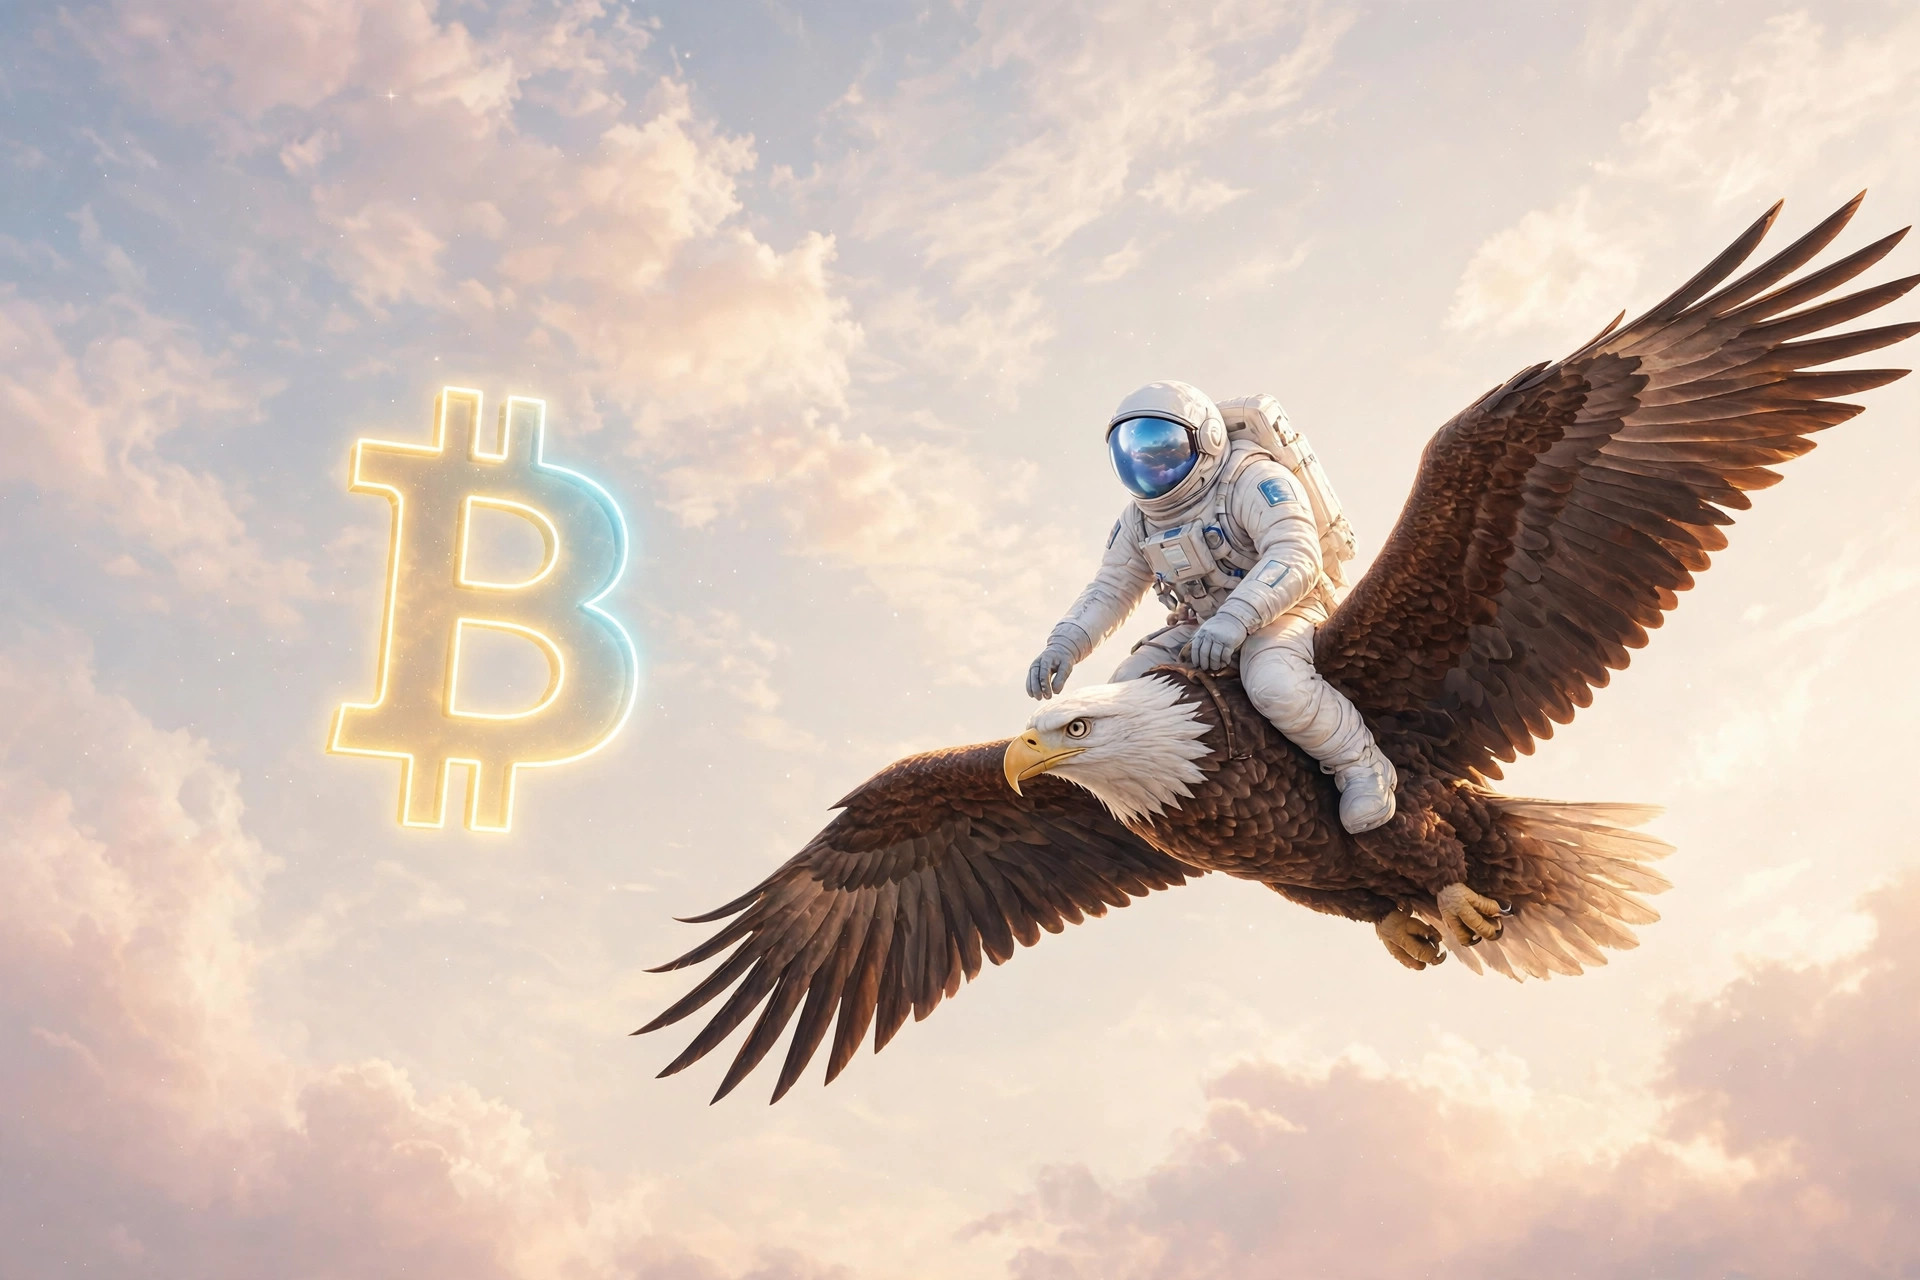
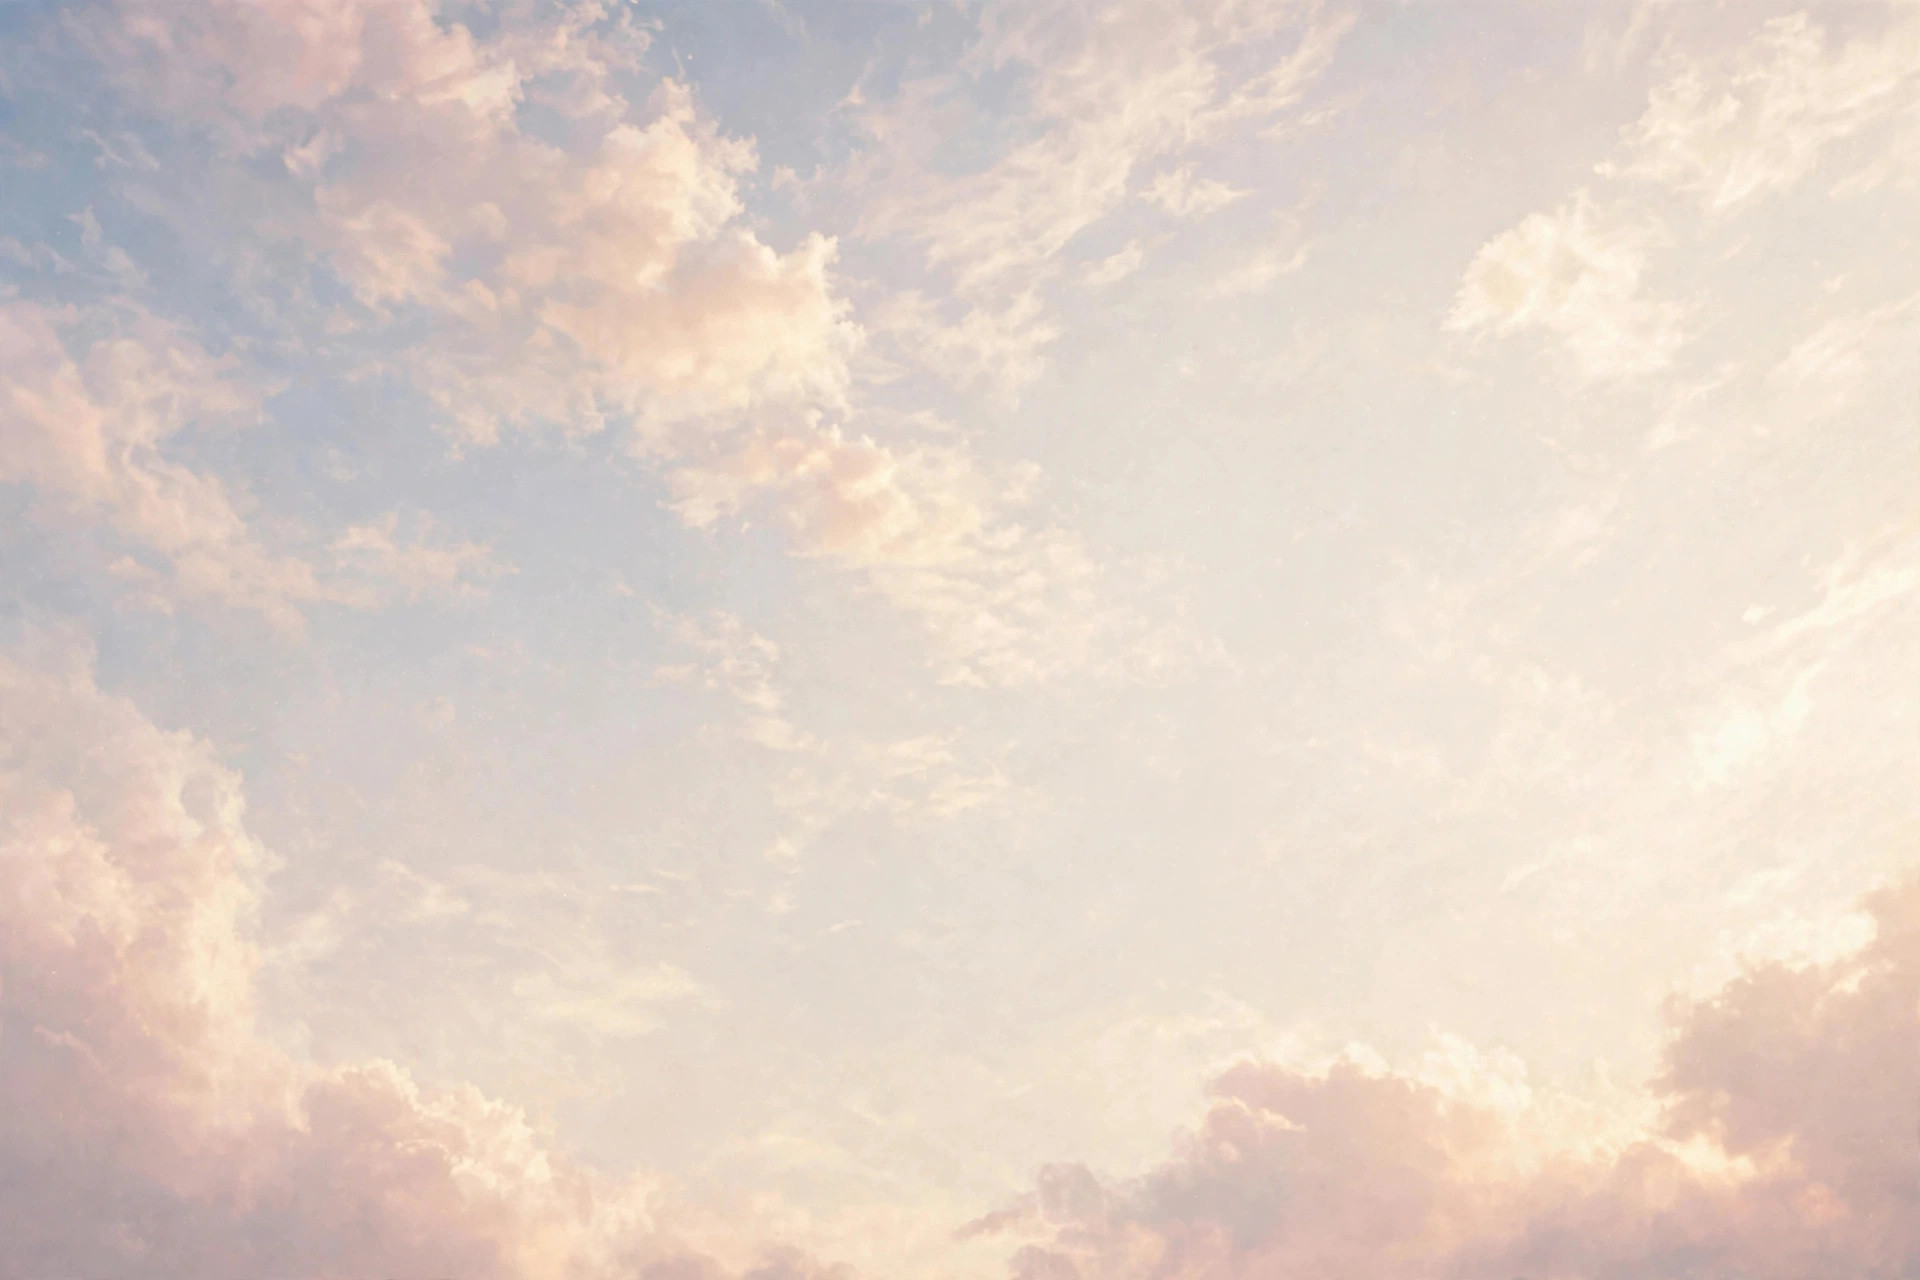
About card: add 'This desk watches' section; clean galaxy backgrounds
- About card gains a 'This desk watches' block (Price, Issuance, Mempool,
  Sovereignty) linking to each page section; fills the empty space beside
  the On This Day card.
- banner.jpg / banner-light.jpg: removed the eagle, astronaut, and Bitcoin
  logo — pure galaxy (dark) / clouds (light) backgrounds.

Changed region(s): [[0.3125, 0.1562, 1.0, 0.875], [0.1562, 0.2812, 0.3438, 0.6562]]

diff --git a/src/components/about-panel.tsx b/src/components/about-panel.tsx
@@ -1,5 +1,33 @@
+import { Activity, Coins, Layers, ShieldCheck } from "lucide-react";
 import { OnThisDay } from "@/components/on-this-day";
 import { XIcon } from "@/components/x-icon";
+
+const WATCHES = [
+  {
+    icon: Activity,
+    title: "Price",
+    blurb: "Live tape and chart",
+    href: "#markets",
+  },
+  {
+    icon: Coins,
+    title: "Issuance",
+    blurb: "Supply, halving, difficulty",
+    href: "#network",
+  },
+  {
+    icon: Layers,
+    title: "Mempool",
+    blurb: "Fee pressure, next block",
+    href: "#mempool",
+  },
+  {
+    icon: ShieldCheck,
+    title: "Sovereignty",
+    blurb: "Nodes, signers, self-custody",
+    href: "#resources",
+  },
+];
 
 export function AboutPanel() {
   return (
@@ -43,6 +71,34 @@ export function AboutPanel() {
               Bitcoin-only desk that watches price and issuance.
             </p>
           </div>
+        </div>
+
+        <div className="mt-8 border-t border-border/60 pt-6">
+          <p className="text-xs font-medium uppercase tracking-[0.16em] text-muted">
+            This desk watches
+          </p>
+          <ul className="mt-4 grid gap-3 sm:grid-cols-2">
+            {WATCHES.map((item) => (
+              <li key={item.title}>
+                <a
+                  href={item.href}
+                  className="group flex items-start gap-3 rounded-lg p-2 transition-colors duration-150 hover:bg-tab"
+                >
+                  <span className="mt-0.5 inline-flex size-8 shrink-0 items-center justify-center rounded-md bg-tab text-accent transition-colors duration-150 group-hover:bg-accent group-hover:text-white">
+                    <item.icon className="size-4" />
+                  </span>
+                  <span className="min-w-0">
+                    <span className="block text-sm font-medium text-fg">
+                      {item.title}
+                    </span>
+                    <span className="block text-xs text-muted">
+                      {item.blurb}
+                    </span>
+                  </span>
+                </a>
+              </li>
+            ))}
+          </ul>
         </div>
       </article>
 
